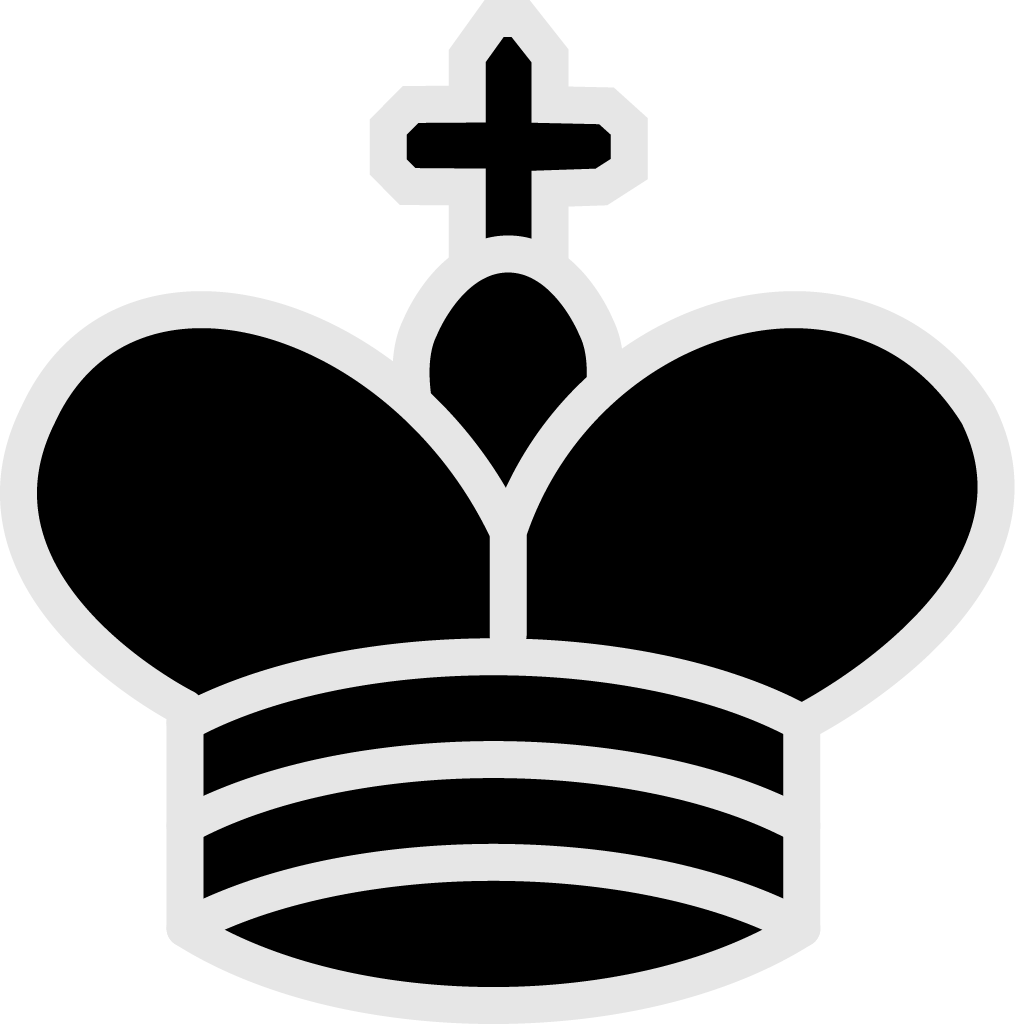
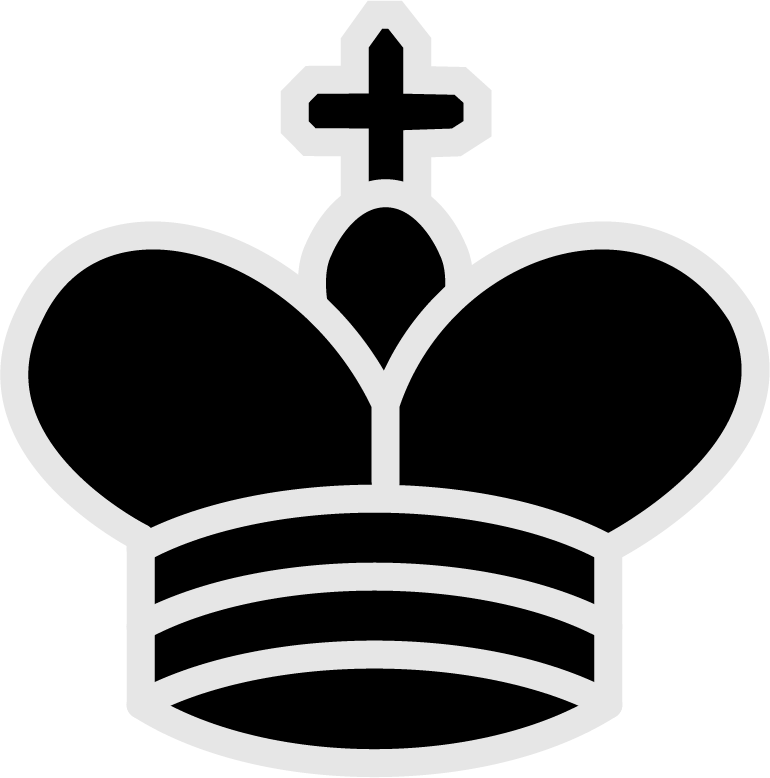
added movement

Changed region(s): [[0.7169, 0.8946, 0.7481, 0.9254], [0.2182, 0.8946, 0.2494, 0.9254]]

diff --git a/main.py b/main.py
@@ -1,9 +1,9 @@
 
-from re import S
+from telnetlib import GA
 import pygame as p
 import os
+from GameState import GameState, PIECES
 
-from GameState import GameState 
 
 
 
@@ -15,14 +15,14 @@ WHITE = p.Color("white")
 BLACK_SQUARE_IMAGE = p.image.load(os.path.join('images','square brown dark.png'))
 BLACK_SQUARE = p.transform.scale(BLACK_SQUARE_IMAGE, (SQUARE_SIZE,SQUARE_SIZE))
 WHITE_SQUARE_IMAGE = p.image.load(os.path.join('images','square brown light.png'))
+OFFSET= 8
 WHITE_SQUARE = p.transform.scale(WHITE_SQUARE_IMAGE, (SQUARE_SIZE,SQUARE_SIZE))
 GAME_STATE = GameState()
 IMAGES = {}
 
 def loadImages():
-    pieces = ['br','bk','bb','bq','bc','bp','wr','wk','wb','wq','wc','wp']
-    for piece in pieces:
-        IMAGES[piece] = p.transform.scale(p.image.load(os.path.join('images',piece+'.png')),(SQUARE_SIZE,SQUARE_SIZE))
+    for piece in PIECES:
+        IMAGES[piece] = p.transform.scale(p.image.load(os.path.join('images',piece+'.png')),(0.7*SQUARE_SIZE,0.75*SQUARE_SIZE))
  
 def drawBoard(screen):
 
@@ -35,7 +35,7 @@ def drawBoard(screen):
             else:
                 screen.blit(WHITE_SQUARE,(column*SQUARE_SIZE,row*SQUARE_SIZE))
             if board[row][column] in IMAGES:
-                screen.blit(IMAGES[board[row][column]],(column*SQUARE_SIZE,row*SQUARE_SIZE))
+                screen.blit(IMAGES[board[row][column]],(column*SQUARE_SIZE+OFFSET,row*SQUARE_SIZE+OFFSET))
 
     
 
@@ -46,13 +46,33 @@ def main():
     loadImages()
     screen.fill(WHITE)
     running = True
+    
+    pieceSelected = ()
+    landingSelected = ()
     while running:
         clock.tick(MAX_FPS)
         for e in p.event.get():
-            print(e)
+            # print(e)
             drawBoard(screen)
             if e.type == p.QUIT:
                 running = False
+            if e.type == p.MOUSEBUTTONDOWN:
+                position = e.pos
+                column = position[0]// SQUARE_SIZE
+                row = position[1]//SQUARE_SIZE
+                if len(pieceSelected) == 0:
+                    print('hey')
+                    if (GAME_STATE.checkPiece(row,column)):
+                        pieceSelected = (row,column)
+                elif 
+                else:
+                    if(not GAME_STATE.checkPiece(row,column) and (row,column) != pieceSelected):
+                        landingSelected = (row, column)
+                        print(pieceSelected,landingSelected)
+                        GAME_STATE.makeMove(pieceSelected,landingSelected)
+                        pieceSelected = ()
+                        landingSelected = ()
+                                        
             
         p.display.update()
         

diff --git a/GameState.py b/GameState.py
@@ -1,9 +1,15 @@
 
+from matplotlib.pyplot import pie
 import numpy as np
+from pyparsing import col
+
+
+PIECES = {'br','bk','bb','bq','bc','bp','wr','wk','wb','wq','wc','wp'}
+
 class GameState():
     
     def __init__(self) -> None:
-        self.board = np.array([
+        self.board = [
             ['br','bk','bb','bq','bc','bb','bk','br'],
             ['bp','bp','bp','bp','bp','bp','bp','bp'],
             ['--','--','--','--','--','--','--','--','--'],
@@ -12,5 +18,20 @@ class GameState():
             ['--','--','--','--','--','--','--','--','--'],
             ['wp','wp','wp','wp','wp','wp','wp','wp'],
             ['wr','wk','wb','wq','wc','wb','wk','wr']        
-        ])
+        ]
+        self.whiteMove = True
+        self.moveLog = []
+        
+    def checkPiece(self,row,column):
+        if self.board[row][column] in PIECES:
+            return True
+        else:
+            return False
+        
+    def makeMove(self, initial, final):
+        piece = self.board[initial[0]][initial[1]]
+        self.board[initial[0]][initial[1]]  = '--'
+        self.board[final[0]][final[1]] = piece
+        self.moveLog.append((piece,initial,final))
+        
         

diff --git a/rename.py b/rename.py
@@ -1,0 +1,13 @@
+import os
+
+import scipy as sp
+path = '/home/lalwani/Software_Projects/AIChess/images'
+for filename in os.listdir(path):
+    splitname = filename.split('_')
+    if len(splitname)>1:
+        if splitname[1] == 'king':
+            newname = splitname[0] + 'c.png'
+        else:
+            newname = splitname[0] + splitname[1][0] + '.png'
+        os.rename(os.path.join(path,filename), os.path.join(path,newname))
+    
